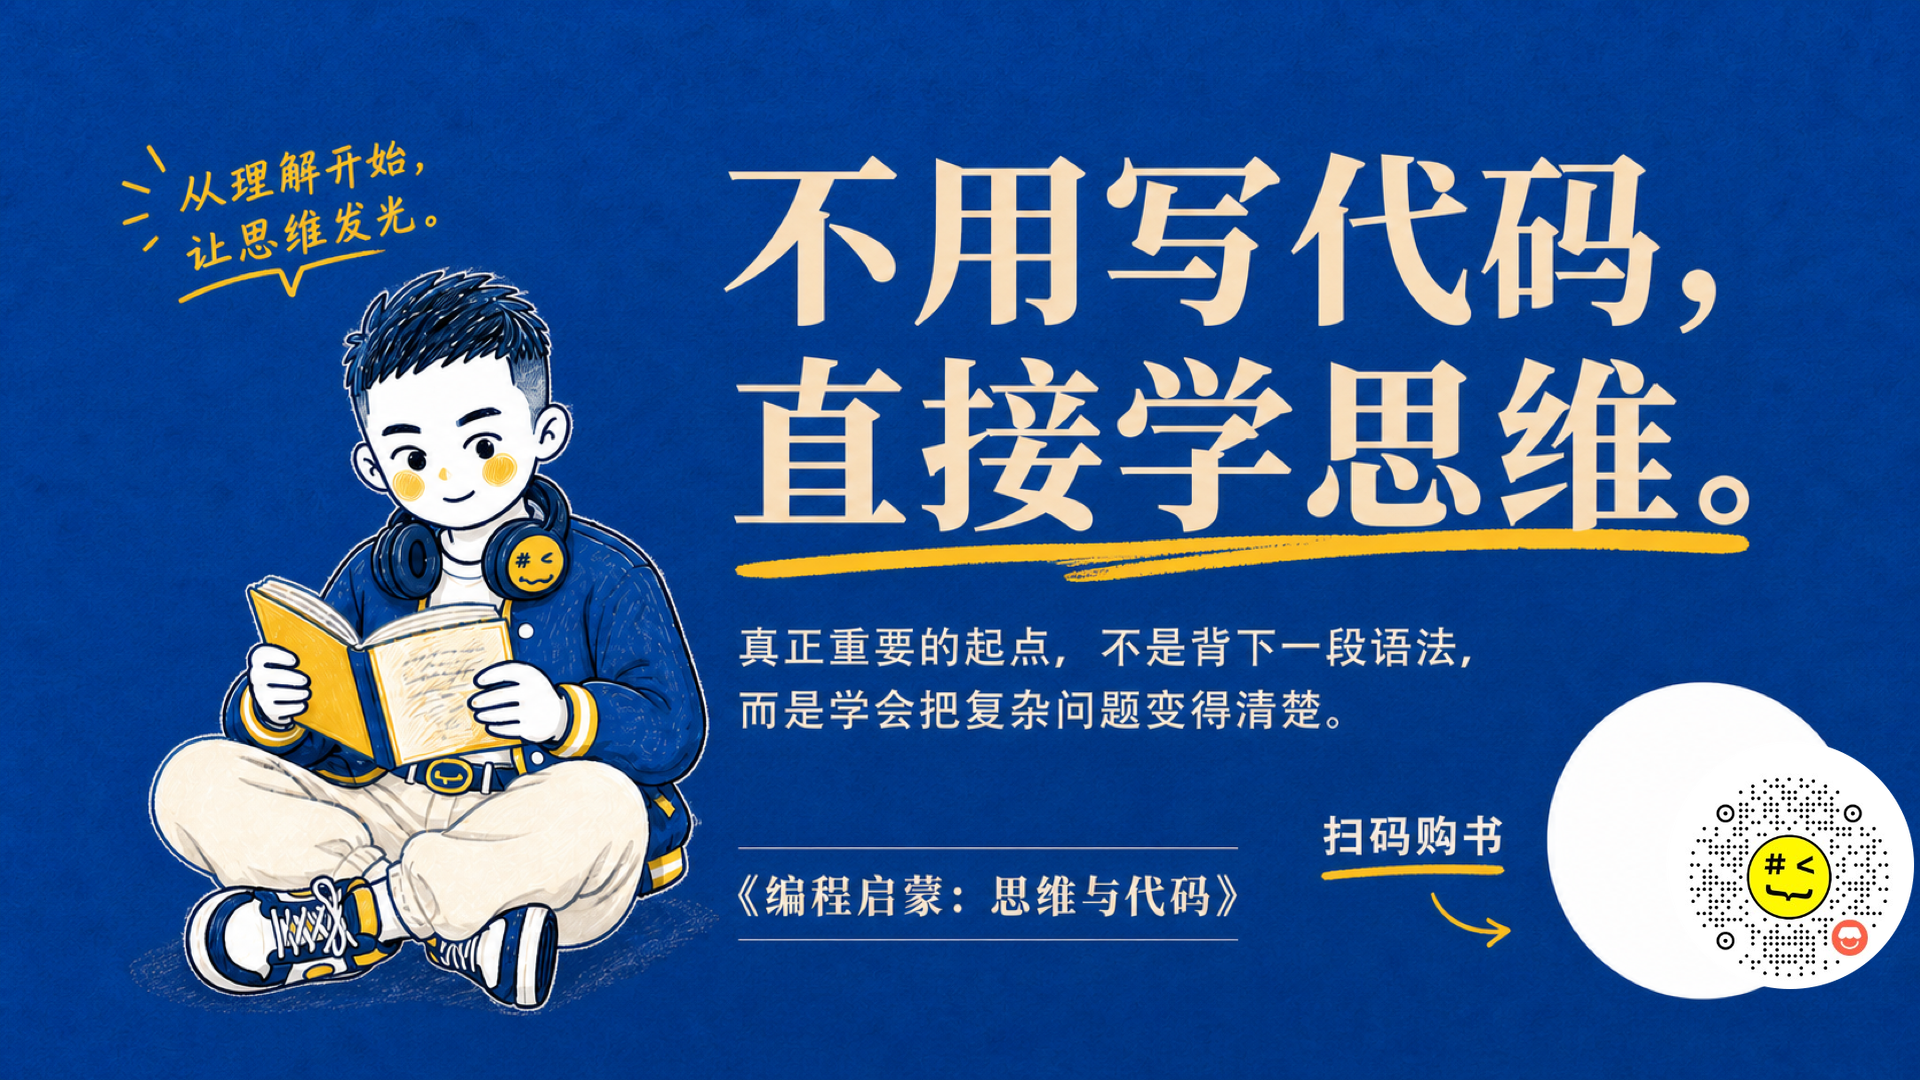
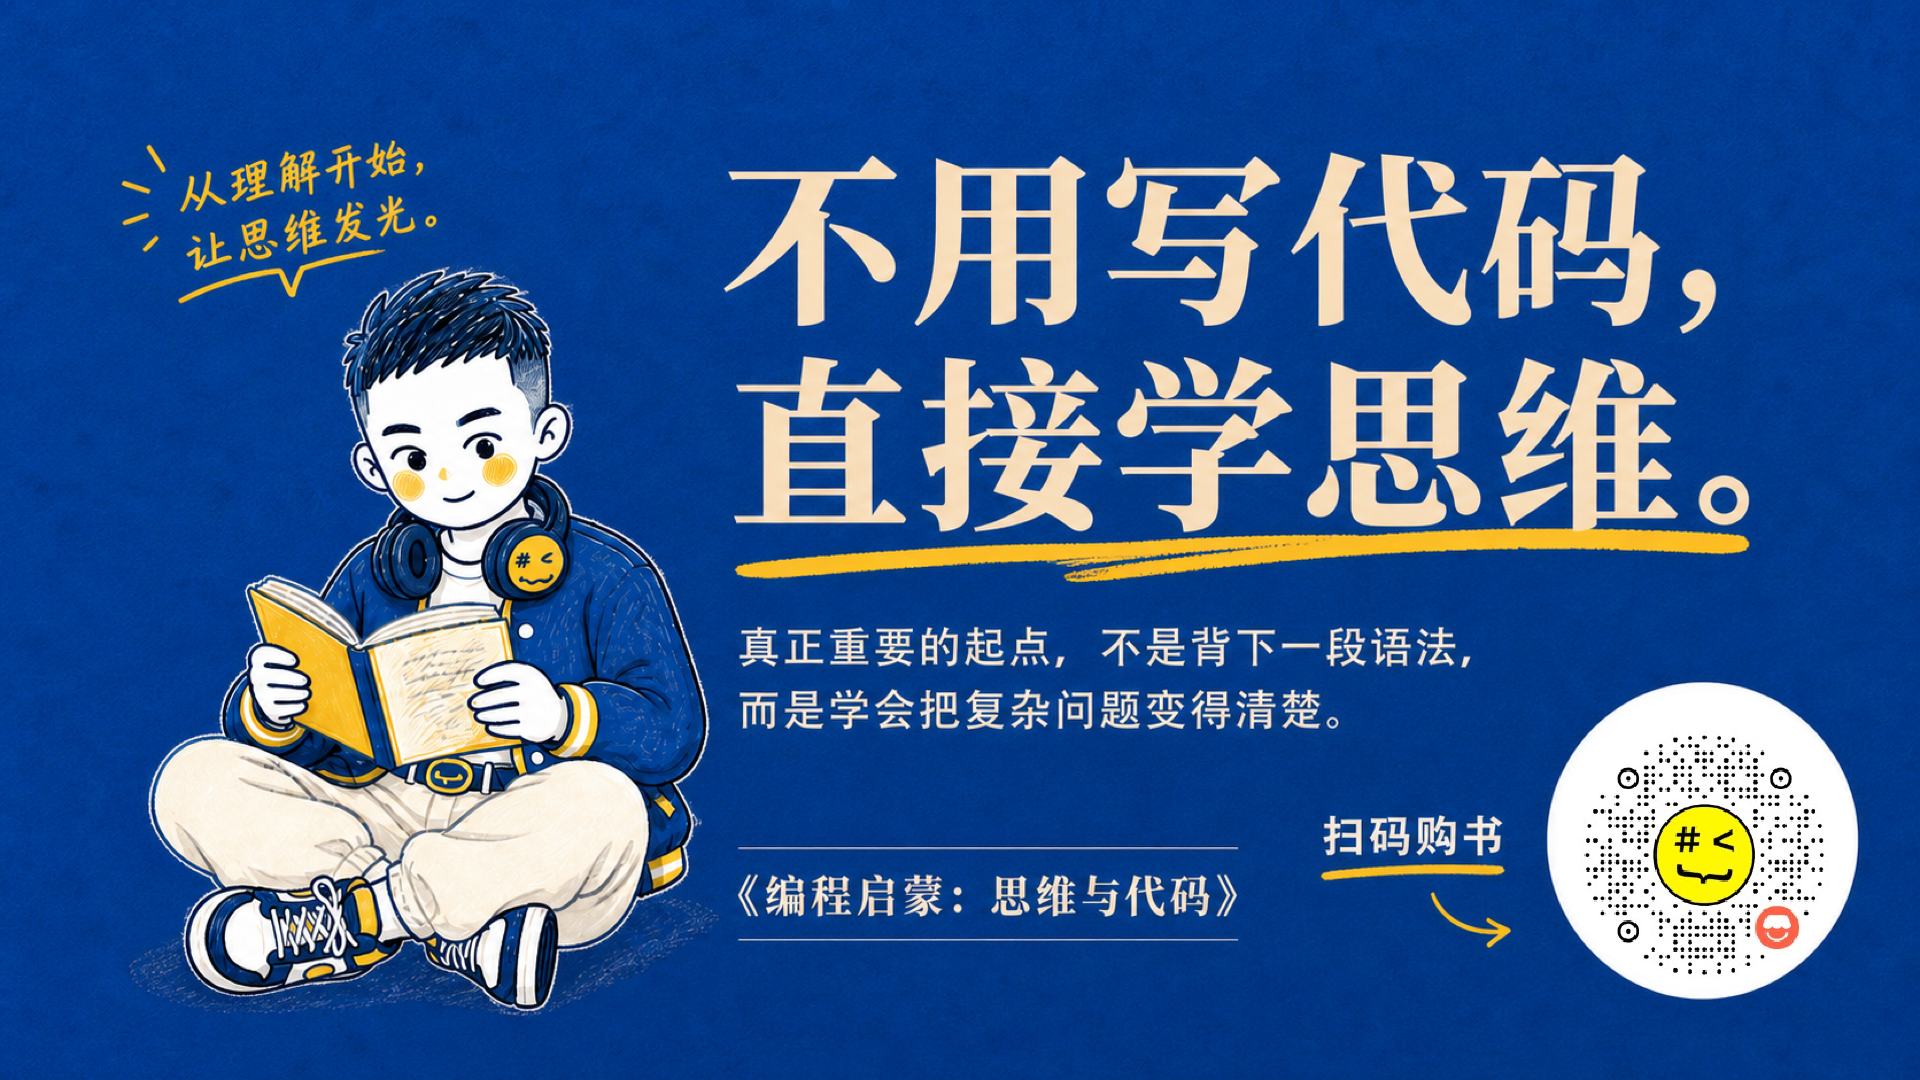
fix: align and enlarge purchase QR codes

Changed region(s): [[0.8125, 0.6722, 1.0, 0.9167]]

diff --git a/posters-programming-enlightenment/book-sales-qr-20-imagegen/PLACEMENT-QA.md b/posters-programming-enlightenment/book-sales-qr-20-imagegen/PLACEMENT-QA.md
@@ -1,0 +1,35 @@
+# 二维码位置与尺寸复核
+
+画布统一为 1920×1080。坐标原点为左上角，以下记录最终圆形购书码的中心点与直径。
+
+## 验收规则
+
+- 每张二维码直径不小于 280px。
+- 二维码完整保留圆形边缘与内部白色静区，不裁切黑色码点。
+- 按每张海报的预留圆形单独定位，不使用统一固定角落。
+- 不遮挡主标题、正文、人物面部、书封或“扫码购书”提示。
+- 二维码来源为原始商品截图裁切，生成模型不参与二维码重绘。
+
+| 编号 | 中心坐标 | 直径 |
+|---|---:|---:|
+| 01 | 1690, 775 | 280px |
+| 02 | 240, 745 | 280px |
+| 03 | 1710, 220 | 280px |
+| 04 | 1650, 870 | 300px |
+| 05 | 1470, 405 | 300px |
+| 06 | 1655, 770 | 280px |
+| 07 | 1590, 230 | 300px |
+| 08 | 1705, 840 | 300px |
+| 09 | 1708, 750 | 280px |
+| 10 | 1570, 720 | 290px |
+| 11 | 1690, 290 | 280px |
+| 12 | 1770, 885 | 280px |
+| 13 | 180, 230 | 280px |
+| 14 | 1680, 295 | 280px |
+| 15 | 235, 850 | 280px |
+| 16 | 1515, 490 | 300px |
+| 17 | 1675, 560 | 280px |
+| 18 | 1705, 465 | 280px |
+| 19 | 1695, 890 | 280px |
+| 20 | 1685, 720 | 300px |
+

diff --git a/posters-programming-enlightenment/book-sales-qr-20-imagegen/README.md b/posters-programming-enlightenment/book-sales-qr-20-imagegen/README.md
@@ -6,11 +6,14 @@
 - 20 张总览：`overview.jpg`
 - 圆形购书码原始裁切：`assets/purchase-qr-circle.png`
 - 生成方向与共同约束：`PROMPTS.md`
+- 二维码位置与尺寸记录：`PLACEMENT-QA.md`
 
 统一规格：PNG，1920×1080。
 
 海报主体、插画、排版和画面文字使用内置 ImageGen 逐张生成；购书码为原始素材的确定性裁切与合成，没有交给生成模型重绘。
 
 二维码裁切已去除价格、书封、店铺名称和说明文字，仅保留圆形小程序码及必要的白色静区。
+
+最终二维码按每张预留圆形独立定位，直径为 280–300px，不再缩小至原版本的 240–270px。
 
 成片中的购书码根据每张版面独立定位，直径控制在 240–280 px；始终保持 1:1 等比、完整圆形边界、白色静区和高对比度，不拉伸、不裁断、不交给生成模型重绘。
